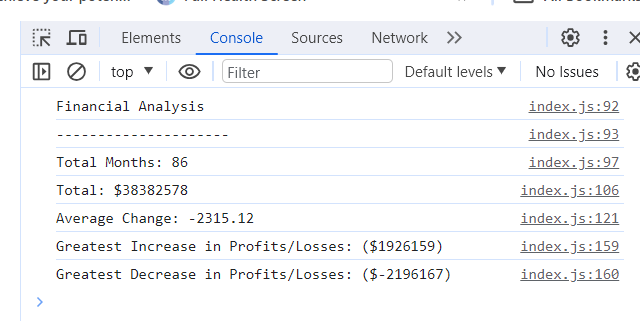
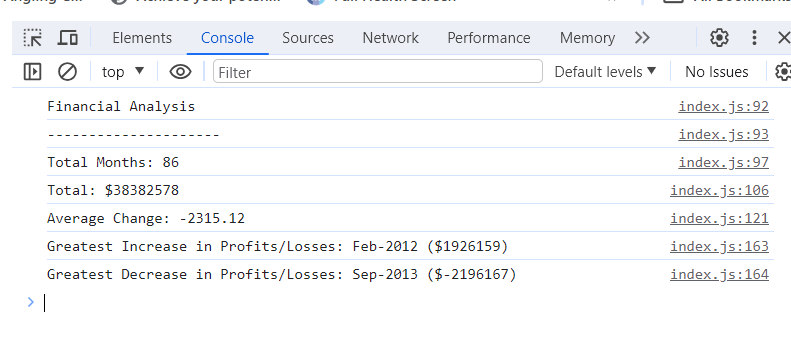
updated image in README and added month to final calculation in js file

diff --git a/index.js b/index.js
@@ -139,22 +139,26 @@ for (var i = 0; i < finances.length - 1; i++) {
 
   differencesList.push([month, eachDifference]);
 
-}    
+}
+
 
   //calculating greatest increase/decrease
-
+  var monthMax = "";
+  var monhMin = "";
   var max = 0; 
   var mini = 0;
 
 for (var j = 0; j < differencesList.length; j++) {
   if (differencesList[j][1] > max) {
     max = differencesList[j][1];
+    monthMax = differencesList[j][0]
   } else if (differencesList[j][1] < mini) {
     mini = differencesList[j][1];
+    monthMin = differencesList[j][0];
   }
 }
 
   // Logging greatest increase/decrease into the console
 
- console.log("Greatest Increase in Profits/Losses: ($" + max + ")");
- console.log("Greatest Decrease in Profits/Losses: ($" + mini + ")");
+ console.log("Greatest Increase in Profits/Losses: " + monthMax + " ($" + max + ")");
+ console.log("Greatest Decrease in Profits/Losses: " + monthMin + " ($" + mini + ")");
